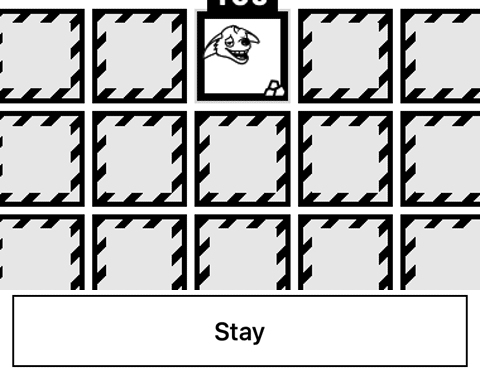
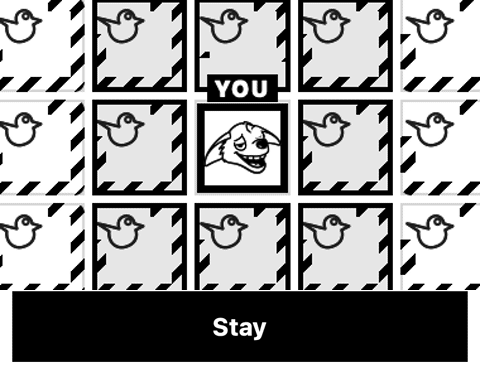
Start cards: remake every picture to show the moment its words describe
New topic: knockout (a bird shown OUT). Pictures are made by setting the server room to the moment; the old exploration scene is gone.

diff --git a/tools/shoot-start-cards.js b/tools/shoot-start-cards.js
@@ -1,73 +1,80 @@
-// Takes the pictures on the start-of-game cards (public/tut/start/*.webp) from the real game: iPhone 13, default theme.
-// Usage: node tools/shoot-start-cards.js [topic ...]   (needs ffmpeg; SCENE=tap,eggs,... picks scenes)
-process.env.PORT = process.env.PORT || '3991'; process.env.BO_NOSTORE = '1'; process.env.BO_BOTMS = '60'; process.env.BO_CLOCKMS = '120000'; process.env.BO_H3START = process.env.BO_H3START || '';
-if (!process.env.BO_H3START) delete process.env.BO_H3START;
-const { webkit, devices } = require('playwright-core'), fs = require('fs'), path = require('path');
+// Takes the pictures on the start-of-game cards (public/tut/start/*.png) from the real game: iPhone 13, B&W look (the default).
+// Usage: SCENE=tap,eggs,... node tools/shoot-start-cards.js     (needs ffmpeg; output goes to shots/sc/, copy what you like to public/tut/start/)
+// A real game is started through the lobby, then the server room is set directly to the moment the words describe (these are pictures, not tests).
+process.env.PORT = process.env.PORT || '3991'; process.env.BO_NOSTORE = '1'; process.env.BO_BOTMS = '60000'; process.env.BO_CLOCKMS = '600000'; delete process.env.BO_H3START;
+const { webkit, devices } = require('playwright-core'), fs = require('fs'), path = require('path'), { execFileSync } = require('child_process');
 const server = require('../server.js'); const U = 'http://localhost:' + process.env.PORT + '/';
 const RAW = path.join(__dirname, '..', 'shots', 'sc'); fs.mkdirSync(RAW, { recursive: true });
-const want = process.argv.slice(2);
+const K = p => p[0] + ',' + p[1];
 (async () => {
   const b = await webkit.launch();
   const mk = async () => { const c = await b.newContext({ ...devices['iPhone 13'], deviceScaleFactor: 2 }); const p = await c.newPage(); await p.addInitScript(() => { for (const k of ['bo_hs_off', 'bo_tut_seen', 'bo_walk_blue', 'bo_walk_red', 'bo_walk_hunter', 'bo_tips_off']) localStorage.setItem(k, '1'); ['blue', 'red'].forEach(r => localStorage.setItem('bo_cs_' + r, '9')); }); p.on('pageerror', e => console.log('pageerror', e.message)); return p; };
-  // the picture, cut like the How to play ones (tools/shots-real-play.js howCrop): a few squares of the real B&W board around the moment
-  // (focus = selector of the thing to centre on), plus the action buttons underneath when the buttons are the point. Shrunk to a small palette PNG.
-  const { execFileSync } = require('child_process');
-  const crop = async (p, name, focus, buttons) => {
-    const r = await p.evaluate(([f, btn]) => { const bd = document.getElementById('board').getBoundingClientRect(), cs = [...document.querySelectorAll('#board .cell')]; const el = f && cs.find(c => c.matches(f) || c.querySelector(f)) || cs[Math.floor(cs.length / 2)]; const c = el.getBoundingClientRect(); const W = 5 * c.width + 2, H = 3 * c.height + 2; let L = c.x + c.width / 2 - W / 2, T = c.y + c.height / 2 - H / 2; L = Math.max(bd.x, Math.min(L, bd.right - W)); T = Math.max(bd.y, Math.min(T, bd.bottom - H)); const a = document.getElementById('actions').getBoundingClientRect(); return { x: L, y: T, width: W, height: H, at: a.height > 0 ? { top: a.top - 4, h: a.height + 8 } : null }; }, [focus, buttons]);
-    const f1 = path.join(RAW, name + '-a.png'), f2 = path.join(RAW, name + '-b.png'), out = path.join(RAW, name + '.png');
-    await p.screenshot({ path: f1, clip: { x: r.x, y: r.y, width: r.width, height: r.height } });
-    const tail2 = 'split[a][b];[a]palettegen=max_colors=32[p];[b][p]paletteuse', tail = 'scale=480:-2,split[a][b];[a]palettegen=max_colors=32[p];[b][p]paletteuse';
-    if (buttons && r.at) { await p.screenshot({ path: f2, clip: { x: 0, y: r.at.top, width: 390, height: r.at.h } }); execFileSync('ffmpeg', ['-y', '-v', 'error', '-i', f1, '-i', f2, '-filter_complex', '[0]scale=480:-2[a];[1]scale=480:-2[b];[a][b]vstack,' + tail2, out]); }
-    else execFileSync('ffmpeg', ['-y', '-v', 'error', '-i', f1, '-filter_complex', tail, out]);
-    console.log('shot', name, fs.statSync(out).size, 'bytes', buttons ? (r.at ? 'with buttons' : 'NO BUTTONS') : '');
-  };
-  const info = p => p.evaluate(() => { const S = UI._S(); return S && { phase: S.phase, role: S.role, round: S.round, myTurn: S.myTurn, acts: [...document.querySelectorAll('#actions button')].map(x => x.innerText.trim()), hint: document.getElementById('hint').innerText, keys: Object.keys(S) }; });
   const closeCard = async p => { if (await p.locator('#rolecard:not(.hidden)').count()) await p.click('#rolecard').catch(() => {}); };
-  // one step: place an egg or take a legal square
-  const step = async p => p.evaluate(() => { const S = UI._S(); if (!S) return 'none'; if (window.CUTAWAYS && CUTAWAYS.busy && CUTAWAYS.busy()) return 'busy'; if (document.getElementById('cutaway') || document.getElementById('surprise-go')) return 'busy'; const c = document.querySelector('#board .cell.legal'); if (!c) return 'nolegal'; c.click(); return 'tap'; });
-  const stepTo = (p, sel) => p.evaluate(sel => { const S = UI._S(); if (!S) return; if (window.CUTAWAYS && CUTAWAYS.busy && CUTAWAYS.busy()) return; if (document.getElementById('cutaway') || document.getElementById('surprise-go')) return; const cells = [...document.querySelectorAll('#board .cell')], legal = cells.filter(c => c.classList.contains('legal')); if (!legal.length) return; const xy = c => { const i = cells.indexOf(c); return [i % 9, Math.floor(i / 9)]; }; const t = sel && cells.find(c => c.matches(sel) || c.querySelector(sel)); let best = legal[0]; if (t) { const [tx, ty] = xy(t); let d = 1e9; for (const c of legal) { const [x, y] = xy(c), k = Math.abs(x - tx) + Math.abs(y - ty) + (c === t ? 100 : 0); if (k < d) { d = k; best = c; } } } best.click(); }, sel);
-  async function drive(p, pred, name, chase, focus, buttons, max = 300) {
-    for (let i = 0; i < max; i++) {
-      await closeCard(p);
-      const s = await info(p);
-      if (s && s.phase === 'over') return console.log('over before', name), false;
-      if (s && s.myTurn && s.phase === 'play' && await p.evaluate('(' + pred.toString() + ')()').catch(() => false) && await p.evaluate(() => document.getElementById('actions').getBoundingClientRect().height > 0)) { await p.waitForTimeout(500); await crop(p, name, focus, buttons); return true; }
-      if (s && (s.myTurn || /^setup/.test(s.phase))) await stepTo(p, chase);
-      await p.waitForTimeout(150);
-    }
-    console.log('gave up', name); return false;
-  }
-  const solo = async (bots, role, kind) => { const p = await mk(); await p.goto(U); await p.click('#playSolo'); await p.click('[data-bots="' + bots + '"]'); await p.click('#soloGo'); if (role) await p.click('[data-role="' + role + '"]'); if (kind) await p.click('[data-hkind="' + kind + '"]'); await p.click('#startGame'); await p.waitForSelector('#board .cell'); return p; };
-  const seen = new Set(); const explore = async (p, n, chase) => { for (let i = 0; i < n; i++) { await closeCard(p); const s = await info(p); const k = s && s.myTurn && JSON.stringify([s.acts, s.hint]); if (k && !seen.has(k)) { seen.add(k); console.log(s.round, k); } if (s && (s.myTurn || /^setup/.test(s.phase))) await step(p); await p.waitForTimeout(200); } };
-  const which = process.env.SCENE;
-  if (which === 'x-classic0') { const p = await solo(1, 'blue'); await explore(p, 30); await crop(p, 'x-classic'); await p.screenshot({ path: RAW + '/x-full.png' }); console.log(await p.evaluate(() => ['hud','hint','board','actions'].map(i => i + JSON.stringify(document.getElementById(i).getBoundingClientRect())).join(' '))); }
-  const dist = (a, b) => `(()=>{const cs=[...document.querySelectorAll('#board .cell')];const f=s=>cs.findIndex(c=>c.matches(s)||c.querySelector(s));const i=f('${a}'),j=f('${b}');return i<0||j<0?99:Math.abs(i%9-j%9)+Math.abs(Math.floor(i/9)-Math.floor(j/9));})()`;
-  const team = async (mine, name, pred, buttons) => {
-    const A = await mk(), V = await mk(), other = mine === 'ostrich' ? V : A;
+  const state = p => p.evaluate(() => { const S = UI._S(); return S && { phase: S.phase, myTurn: S.myTurn }; });
+  const tapLegal = p => p.evaluate(() => { if (window.CUTAWAYS && CUTAWAYS.busy && CUTAWAYS.busy()) return; const c = document.querySelector('#board .cell.legal'); if (c) c.click(); });
+  // play the setup taps until the game is in play
+  const toPlay = async p => { for (let i = 0; i < 80; i++) { await closeCard(p); const s = await state(p); if (s && s.phase === 'play') return; await tapLegal(p); await p.waitForTimeout(200); } throw new Error('never reached play'); };
+  const solo = async (bots, role) => { const p = await mk(); await p.goto(U); await p.click('#playSolo'); await p.click('[data-bots="' + bots + '"]'); await p.click('#soloGo'); await p.click('[data-role="' + role + '"]'); await p.click('#startGame'); await p.waitForSelector('#board .cell'); await toPlay(p); return p; };
+  const room = () => [...server.rooms.values()].pop();
+  // set the room, tell everyone, wait until the phone shows it
+  const inject = async (pages, fn, want) => {
+    const r = room(); fn(r.g, r); server.broadcast(r);
+    for (const p of [].concat(pages)) { for (let i = 0; i < 60; i++) { await closeCard(p); const s = await state(p); if (s && (want ? s.phase === want : s.myTurn && s.phase === 'play') && !(await p.evaluate(() => (window.CUTAWAYS && CUTAWAYS.busy && CUTAWAYS.busy()) || !!document.getElementById('cutaway') || !!document.getElementById('surprise-go')))) break; await p.waitForTimeout(150); } await p.waitForTimeout(900); await closeCard(p); }
+  };
+  // The picture: cols x rows squares of the real board around the focus (the YOU tag above a square is kept in), optionally the top bar above it and/or the action buttons below it.
+  const crop = async (p, name, o) => {
+    o = Object.assign({ cols: 5, rows: 3, focus: null, hud: false, buttons: false, el: null }, o);
+    const r = await p.evaluate(o => {
+      const bd = document.getElementById('board').getBoundingClientRect(), cs = [...document.querySelectorAll('#board .cell')];
+      const el = o.focus && cs.find(c => c.matches(o.focus) || c.querySelector(o.focus)) || cs[Math.floor(cs.length / 2)], c = el.getBoundingClientRect();
+      const W = o.cols * c.width + 2, H = o.rows * c.height + 2; let L = c.x + c.width / 2 - W / 2, T = c.y + c.height / 2 - H / 2;
+      L = Math.max(bd.x, Math.min(L, bd.right - W)); T = Math.max(bd.y, Math.min(T, bd.bottom - H));
+      const tag = T <= bd.y + 1 ? 16 : 0; // the YOU tag of a top-row square sticks out above the board
+      const q = id => { const a = document.getElementById(id).getBoundingClientRect(); return a.height > 0 ? { top: a.top - 3, h: a.height + 6 } : null; };
+      return { x: L, y: T - tag, w: W, h: H + tag, hud: q('hud'), at: q('actions') };
+    }, o);
+    const files = [];
+    const shot = async (sfx, clip) => { const f = path.join(RAW, name + sfx + '.png'); await p.screenshot({ path: f, clip }); files.push(f); };
+    let n = 0; for (const it of (o.els || []).concat(o.hud ? ['#hud'] : [])) { const sel = it.sel || it, e = await p.locator(sel).boundingBox(); if (e && e.height > 0) await shot('-h' + n++, { x: it.x || 0, y: e.y - 3, width: it.w || 390, height: e.height + 6 }); }
+    if (o.noBoard) {} else if (o.clip) await shot('-a', { x: 0, y: o.clip[0], width: 390, height: o.clip[1] });
+    else await shot('-a', { x: r.x, y: r.y, width: r.w, height: r.h });
+    if (!files.length) throw new Error('nothing to shoot');
+    if (o.buttons && r.at) await shot('-b', { x: 0, y: r.at.top, width: 390, height: r.at.h });
+    const out = path.join(RAW, name + '.png');
+    const ins = files.flatMap(f => ['-i', f]), sc = files.map((_, i) => `[${i}]scale=480:-2[s${i}]`).join(';');
+    const fc = (files.length > 1 ? sc + ';' + files.map((_, i) => `[s${i}]`).join('') + `vstack=${files.length}` : 'scale=480:-2') + ',split[a][b];[a]palettegen=max_colors=32[p];[b][p]paletteuse';
+    execFileSync('ffmpeg', ['-y', '-v', 'error', ...ins, '-filter_complex', fc, out]);
+    console.log('shot', name, fs.statSync(out).size, 'bytes');
+  };
+  const team = async mine => {
+    const A = await mk(), V = await mk();
     await A.goto(U); await A.click('#playFriend'); await A.waitForSelector('#lobbyCode:not(:empty)');
     const link = (await A.inputValue('#lobbyLink')).replace(/^http:\/\/[^/]+/, U.replace(/\/$/, ''));
-    await V.goto(link); await V.waitForSelector('#roomLobby');
-    await A.click('#botPlus'); await A.click('#botPlus');
+    await V.goto(link); await V.waitForSelector('#roomLobby'); await A.click('#botPlus'); await A.click('#botPlus');
     await A.waitForSelector('[data-role="ostrich"]'); await A.click('[data-role="ostrich"]'); await V.click('[data-role="vulture"]');
-    await A.waitForFunction(() => { const s = LobbyUI.get(); return s && !document.getElementById('startGame').disabled; });
-    await A.click('#startGame'); await A.waitForSelector('#board .cell'); await V.waitForSelector('#board .cell');
-    const me = mine === 'ostrich' ? A : V, he = mine === 'ostrich' ? V : A;
-    he.on('pageerror', () => {}); drive(he, () => false, 'x-' + name, null, null, false, 400).catch(() => {});
-    return drive(me, pred, name, null, mine === 'ostrich' ? '.cell.mine,.aimg-ostrich' : '.aimg-vulture', buttons);
+    await A.waitForFunction(() => !document.getElementById('startGame').disabled); await A.click('#startGame');
+    await A.waitForSelector('#board .cell'); await V.waitForSelector('#board .cell');
+    for (let i = 0; i < 120; i++) { await Promise.all([A, V].map(closeCard)); const s = await state(A); if (s && s.phase === 'play') break; await Promise.all([A, V].map(tapLegal)); await A.waitForTimeout(250); }
+    return mine === 'ostrich' ? A : V;
   };
-  const scenes = {
-    xf: async () => { const p = await solo(1, 'blue'); await explore(p, 8); console.log(await p.evaluate(() => [...document.querySelectorAll('#board .cell')].filter(c => /ic-egg|egg/i.test(c.className+c.dataset.tags)).map(c => c.outerHTML.slice(0, 300)).join('\\n'))); },
-    tap: async () => drive(await solo(1, 'blue'), () => true, 'tap', null, '.aimg-ostrich'),
-    eggs: async () => drive(await solo(1, 'blue'), () => !!document.querySelector('.ic-myegg'), 'eggs', null, '.ic-myegg'),
-    eat: async () => drive(await solo(1, 'blue'), () => !!document.querySelector('.ic-food') , 'eat', '.ic-food', '.ic-food'),
-    catch: async () => drive(await solo(2, 'blue'), new Function('return ' + dist('.aimg-ostrich', '.aimg-hyena,.aimg-badger') + ' <= 2'), 'catch', '.aimg-hyena,.aimg-badger', '.aimg-hyena,.aimg-badger'),
-    pounce: async () => drive(await solo(2, 'hyena'), () => !!document.querySelector('.smell') || UI._S().round >= 4, 'pounce', '.aimg-ostrich,.aimg-vulture', '.aimg-hyena', true),
-    boost: async () => drive(await solo(2, 'hyena'), () => /knock/i.test(document.getElementById('hint').innerText) || UI._S().round >= 5, 'boost', '.aimg-ostrich,.aimg-vulture', '.aimg-hyena'),
-    burrow: async () => drive(await solo(2, 'badger'), () => [...document.querySelectorAll('#actions button')].some(b => /Burrow/.test(b.innerText)), 'burrow', '.aimg-ostrich,.aimg-vulture', '.aimg-badger', true),
-    tie: async () => drive(await solo(3, 'hyena'), () => UI._S().round >= 3, 'tie', '.aimg-ostrich,.aimg-vulture', '.aimg-hyena'),
-    warm: async () => team('ostrich', 'warm', () => [...document.querySelectorAll('#actions button')].some(b => /warm/i.test(b.innerText)) || UI._S().round >= 4, false),
-    share: async () => team('vulture', 'share', () => !!document.querySelector('.cell.spot,.cell.spotted,.cell.found') || UI._S().round >= 4, false),
+  const eggsOf = (g, nest) => g.eggs.filter(e => e.alive && (nest == null || e.nest === nest));
+  const S = {
+    tap: async () => { const p = await solo(1, 'blue'); await inject(p, g => { g.ostrich = [4, 3]; g.vulture = [8, 0]; g.turn = 'blue'; }); await crop(p, 'tap', { focus: '#current' }); },
+    // one egg cold in 1 round, one broken, one fine
+    eggs: async () => { const p = await solo(1, 'blue'); await inject(p, g => { g.round = 14; g.ostrich = [3, 3]; g.vulture = [8, 0]; g.turn = 'blue'; g.hungerLeft = 12;
+      g.eggs = [{ id: 0, pos: [4, 3], alive: true, lastWarm: 0 }, { id: 1, pos: [5, 3], alive: false, lastWarm: 0 }, { id: 2, pos: [4, 2], alive: true, lastWarm: 13 }]; g.marks = { '5,3': 'hit' }; }); await crop(p, 'eggs', { focus: '#current', cols: 5, rows: 3 }); },
+    eat: async () => { const p = await solo(1, 'blue'); await inject(p, g => { g.round = 6; g.ostrich = [1, 1]; g.vulture = [8, 3]; g.hungerLeft = 2; g.turn = 'blue';
+      g.eggs = [{ id: 0, pos: [5, 3], alive: true, lastWarm: 5 }, { id: 1, pos: [6, 4], alive: true, lastWarm: 5 }, { id: 2, pos: [5, 5], alive: true, lastWarm: 5 }]; }); await crop(p, 'eat', { focus: '#current', cols: 4, rows: 3, hud: true }); },
+    catch: async () => { const p = await solo(2, 'blue'); await inject(p, g => { g.round = 4; g.ostrich = [4, 3]; g.vulture = [1, 5]; g.three.h = [5, 3]; g.three.sense = true; g.turn = 'blue'; }); await crop(p, 'catch', { focus: '#current' }); },
+    // a bird that is out: the vulture's own view after the hyena caught it twice
+    knockout: async () => { const p = await solo(2, 'blue'); await inject(p, g => { g.round = 6; g.ostrich = [4, 3]; g.vulture = [3, 3]; g.three.h = [6, 3]; g.three.birds.blue = { out: true, catches: 2, skip: 0, why: 'caught' }; g.turn = 'red'; }, 'play'); await crop(p, 'knockout', { els: [{ sel: '#h3bar', x: 70, w: 250 }], noBoard: true }); },
+    boost: async () => { const p = await solo(2, 'hyena'); await inject(p, g => { g.round = 6; g.ostrich = [1, 5]; g.vulture = [8, 5]; g.three.h = [4, 3]; g.three.birds.red = { out: true, catches: 2, skip: 0, why: 'caught' }; g.turn = 'hunter'; g.three.pounce = false; g.three.sense = false; g.three.senseSeq++; g.three.senseAt = [4, 3]; }); console.log('boost lit', await p.evaluate(() => document.querySelectorAll('#board .cell.legal').length)); await crop(p, 'boost', { focus: '#current', cols: 9, rows: 5 }); },
+    pounce: async () => { const p = await solo(2, 'hyena'); await inject(p, g => { g.round = 6; g.ostrich = [1, 5]; g.vulture = [8, 5]; g.three.h = [4, 3]; g.turn = 'hunter'; g.ostrich = [6, 3]; g.three.sense = true; g.three.senseSeq++; g.three.senseAt = [4, 3]; g.three.pounce = true; }); console.log('pounce lit', await p.evaluate(() => document.querySelectorAll('#board .cell.legal').length)); await crop(p, 'pounce', { focus: '#current', cols: 5, rows: 3, buttons: true }); },
+    burrow: async () => { const p = await solo(2, 'badger'); await inject(p, g => { g.round = 4; g.ostrich = [1, 5]; g.vulture = [8, 5]; g.three.h = [4, 3]; g.turn = 'hunter'; g.three.sense = false; g.three.senseSeq++; g.three.senseAt = [4, 3]; }); await crop(p, 'burrow', { focus: '#current', buttons: true }); },
+    tie: async () => { const p = await solo(3, 'hyena'); await inject(p, g => { const h = g.hunt; h.birds.red = { out: true, catches: 1, skip: 0, why: 'caught' }; h.birds.blue = { out: true, catches: 1, skip: 0, why: 'caught' }; h.hs.hyena.kos = 1; h.hs.badger.kos = 1; h.hs.hyena.catches = 1; h.hs.badger.catches = 1; g.phase = 'over'; g.winner = 'none'; g.winBy = 'both'; h.final = true; g.endWhy = 'Both birds are out. The hunters tie: you have the same number of knock-outs, and the same number of catches.'; }, 'over'); await p.waitForTimeout(3500); console.log(await p.evaluate(() => [...document.querySelectorAll('body *')].filter(e => /tie/i.test(e.textContent) && e.children.length < 3 && e.getBoundingClientRect().height > 0).map(e => e.tagName + '#' + e.id + '.' + e.className + ' ' + Math.round(e.getBoundingClientRect().top)).slice(0, 8))); await crop(p, 'tie', { clip: [105, 245] }); },
+    warm: async () => { const p = await team('ostrich'); await inject(p, g => { g.round = 4; const e = eggsOf(g, 1)[0]; g.b.o1.pos = e.pos.slice(); g.b.o2.pos = [Math.min(8, e.pos[0] + 2), Math.min(6, e.pos[1] + 2)]; g.turn = 'o1'; }); await crop(p, 'warm', { focus: '#current', cols: 4, rows: 3 }); },
+    share: async () => { const p = await team('vulture'); await inject(p, g => { g.round = 4; const e = eggsOf(g, 0)[0]; g.marks[K(e.pos)] = 'spotted'; const [x, y] = e.pos; g.b.v1.pos = [Math.min(8, x + 1), y]; g.b.v2.pos = [Math.max(0, x - 1), y]; g.turn = 'v1'; }); await crop(p, 'share', { focus: '#current', cols: 4, rows: 3 }); },
   };
-  for (const k of Object.keys(scenes)) if (!which ? false : which.split(',').includes(k)) await scenes[k]();
+  for (const k of (process.env.SCENE || '').split(',').filter(Boolean)) { try { await S[k](); } catch (e) { console.log('FAILED', k, e.message.slice(0, 200)); } }
   await b.close(); process.exit(0);
 })();

diff --git a/public/start-art.js b/public/start-art.js
@@ -2,12 +2,12 @@
 // and each topic has one real B&W board picture in public/tut/start/ (made by tools/shoot-start-cards.js). A line that matches nothing gets the
 // fallback picture, so the box is never empty. The test e2e-start-cards.js checks that every file exists.
 (function () {
-  const TOPICS = ['tap', 'eggs', 'eat', 'catch', 'pounce', 'boost', 'burrow', 'tie', 'warm', 'share'];
+  const TOPICS = ['tap', 'eggs', 'eat', 'catch', 'knockout', 'pounce', 'boost', 'burrow', 'tie', 'warm', 'share'];
   // first match wins
   const KEYS = [
     ['warm', /warm your teammate/i], ['share', /share found eggs/i], ['tie', /same number of knock-outs|you tie/i],
     ['boost', /after a knock-out/i], ['burrow', /burrow/i], ['pounce', /you smell/i],
-    ['catch', /gets to your square|catches knock|knock a bird out|knocks out 1/i],
+    ['catch', /gets to your square|knocks out 1/i], ['knockout', /knock a bird out/i],
     ['eggs', /egg/i], ['eat', /eat in time|doesn't eat/i], ['tap', /tap a lit square/i],
   ];
   const FALLBACK = 'tap';
